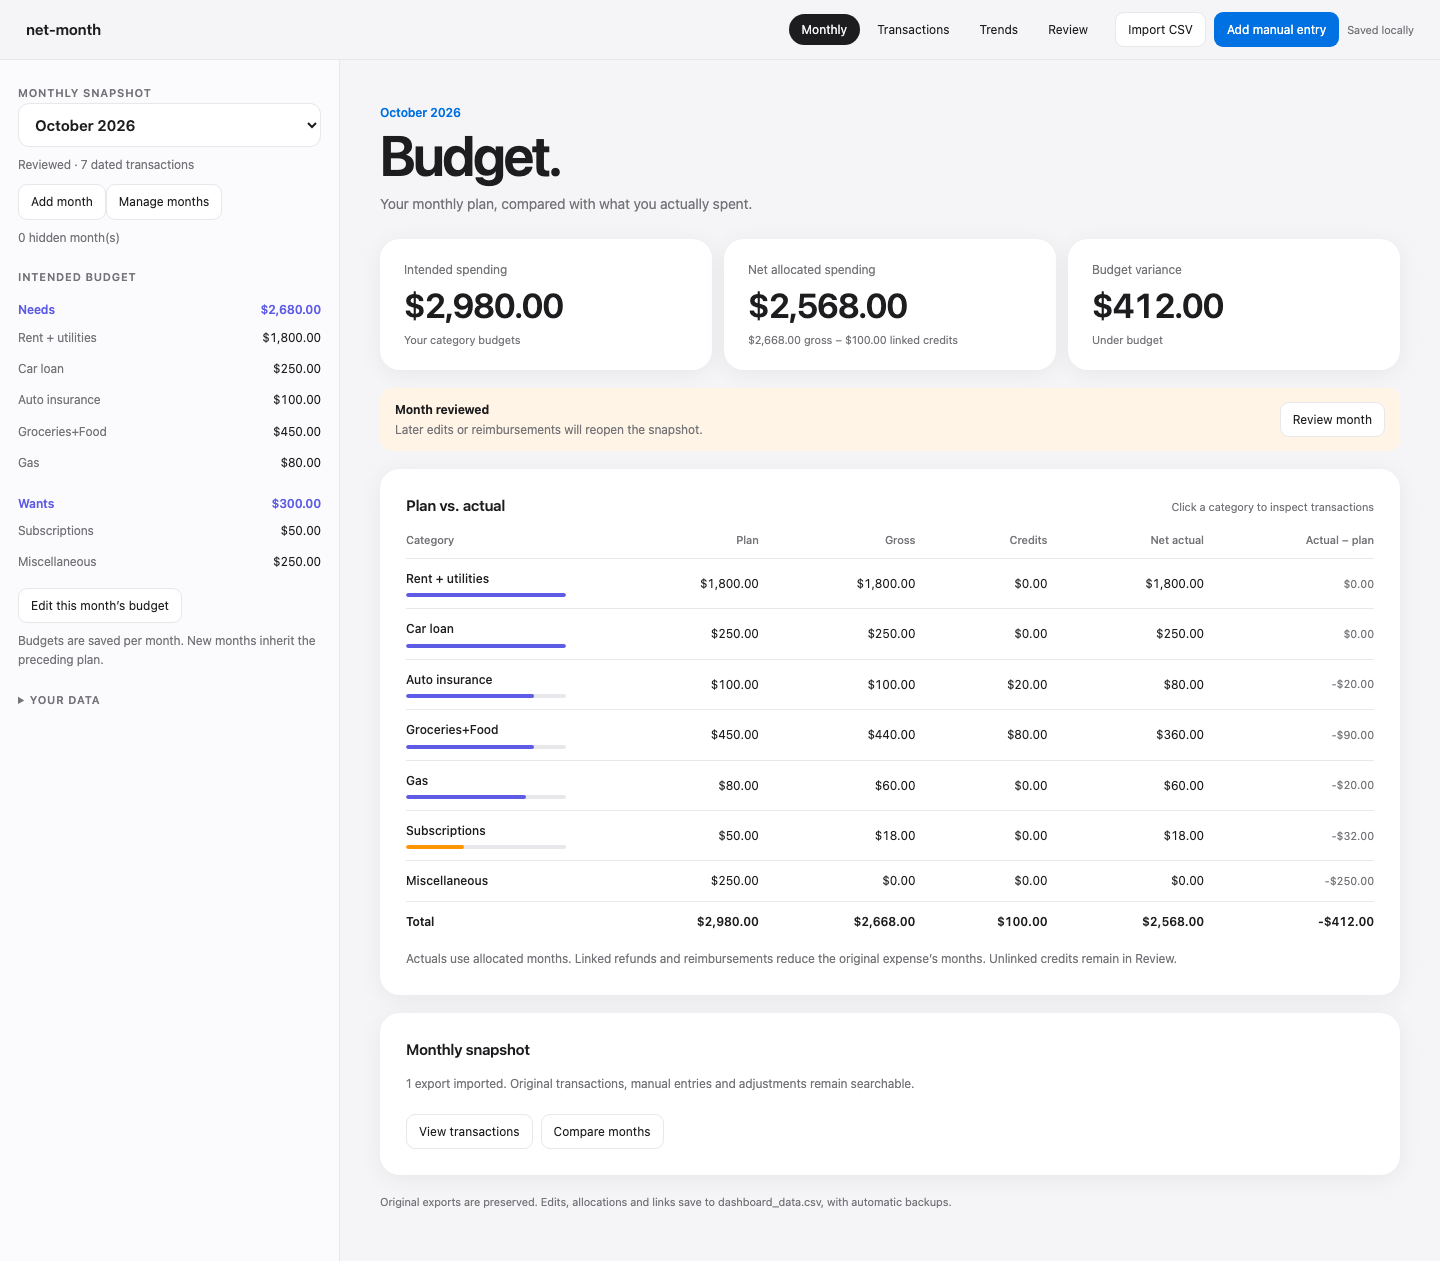
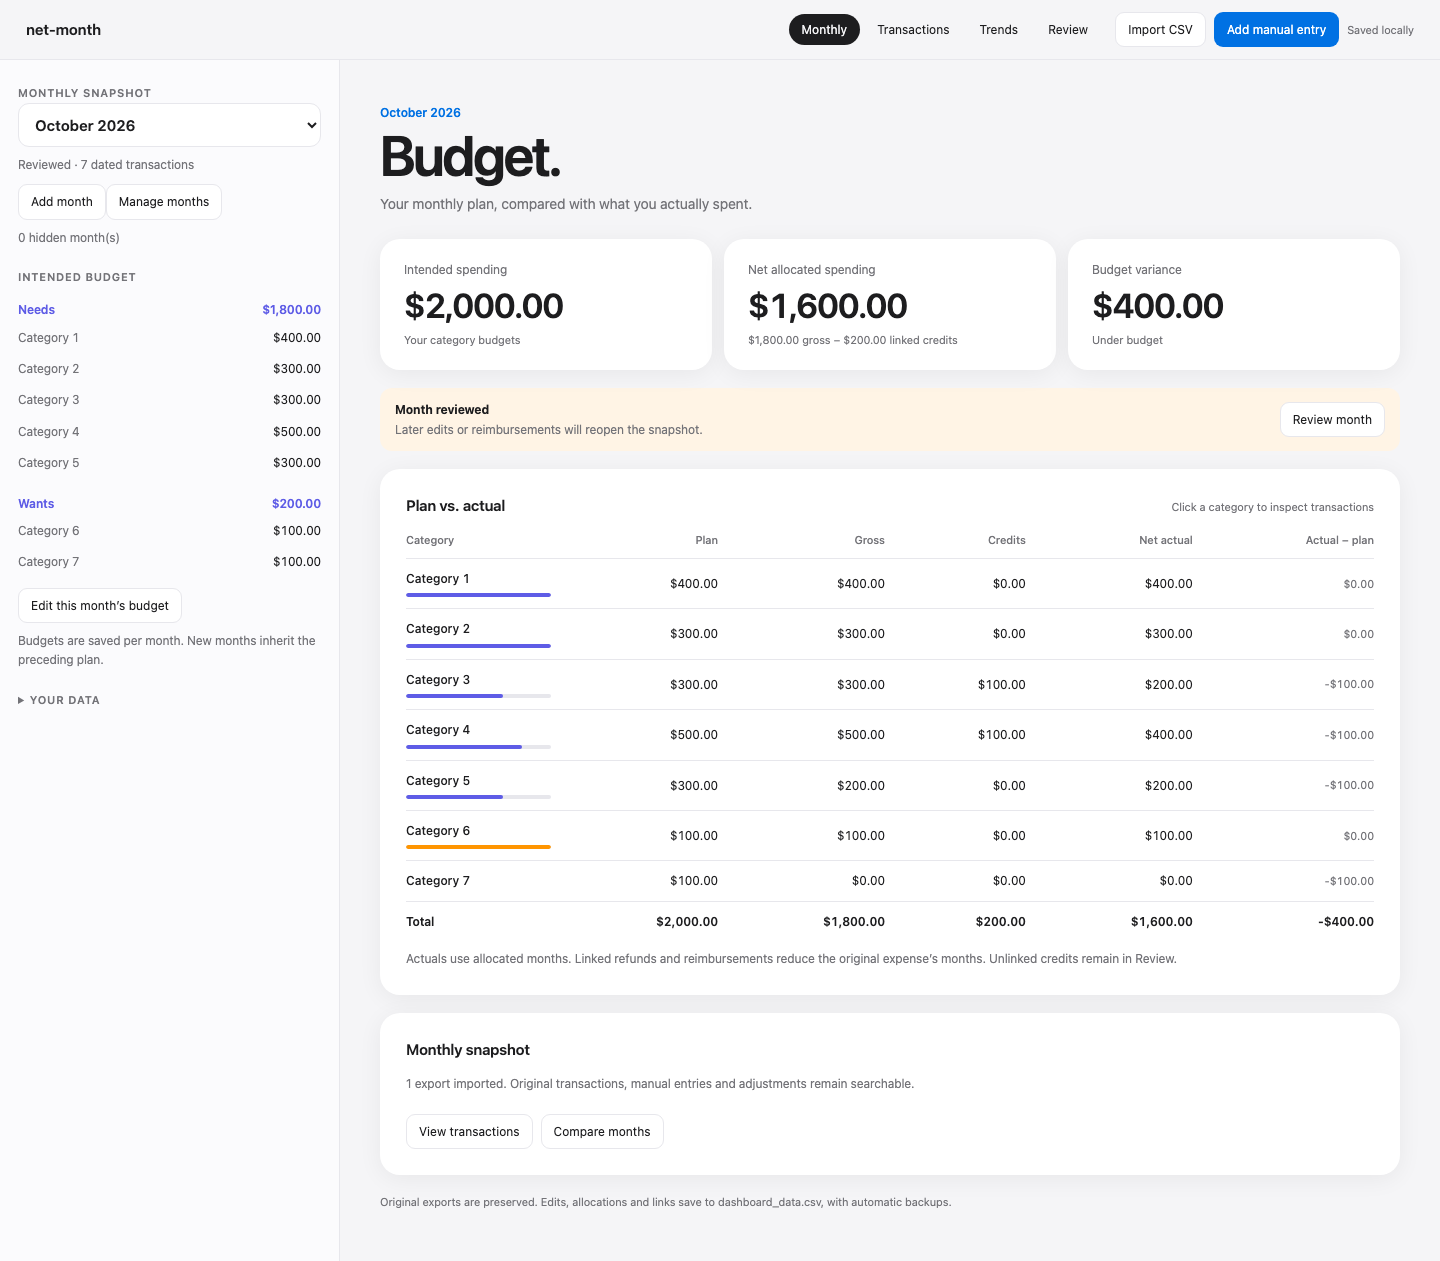
Use generic categories and smaller amounts in the demo

diff --git a/demo.py b/demo.py
@@ -1,26 +1,38 @@
 """Create a synthetic budget in a new data directory; never overwrite records."""
 import argparse
+import json
 from pathlib import Path
 
-from budget_server import Store, empty, preview_import, commit_import, mutate, CATEGORIES
+from budget_server import Store, empty, preview_import, commit_import, mutate, configure
+
+
+DEMO_CONFIG = {
+    'categories': dict(zip([f'Category {i}' for i in range(1, 8)], [400, 300, 300, 500, 300, 100, 100])),
+    'category_map': {'rent': 'Category 1', 'car loan': 'Category 2', 'auto insurance': 'Category 3',
+                     'groceries': 'Category 4', 'restaurants': 'Category 4', 'gasoline/fuel': 'Category 5'},
+    'subscription_category': 'Category 6',
+    'fallback_category': 'Category 7',
+    'groups': {'Needs': [f'Category {i}' for i in range(1, 6)], 'Wants': ['Category 6', 'Category 7']},
+}
 
 
 def demo_state():
+    """Build the synthetic records after loading DEMO_CONFIG."""
     rows = ['Date,Account,Description,Category,Amount']
     for month in ['2026-08', '2026-09', '2026-10']:
         for day, merchant, category, amount in [
-            (1, 'Example Apartments', 'Rent', -1800),
-            (3, 'Example Auto Loan', 'Car loan', -250),
-            (5, 'Example Grocery', 'Groceries', -320),
-            (8, 'Example Fuel', 'Gasoline/Fuel', -60),
-            (15, 'Example Music', 'Online Services', -18),
+            (1, 'Example Apartments', 'Rent', -400),
+            (3, 'Example Auto Loan', 'Car loan', -300),
+            (5, 'Example Grocery', 'Groceries', -200),
+            (8, 'Example Fuel', 'Gasoline/Fuel', -200),
+            (15, 'Example Music', 'Online Services', -100),
         ]:
             rows.append(f'{month}-{day:02},Demo checking,{merchant},{category},{amount}')
     rows += [
-        '2026-08-10,Demo card,Annual insurance,Auto Insurance,-1200',
-        '2026-10-20,Demo card,Insurance refund,Auto Insurance,240',
-        '2026-10-12,Demo card,Dinner with friends,Restaurants,-120',
-        '2026-11-02,Demo checking,Dinner repayment,Restaurants,80',
+        '2026-08-10,Demo card,Annual insurance,Auto Insurance,-3600',
+        '2026-10-20,Demo card,Insurance refund,Auto Insurance,1200',
+        '2026-10-12,Demo card,Dinner with friends,Restaurants,-300',
+        '2026-11-02,Demo checking,Dinner repayment,Restaurants,100',
     ]
     state = empty()
     preview = preview_import(state, '\n'.join(rows) + '\n', 'synthetic-empower.csv')
@@ -28,19 +40,16 @@ def demo_state():
     by_name = {t['description']: t for t in state['transactions']}
     annual = by_name['Annual insurance']
     months = [f'{2026 + (7 + i) // 12}-{(7 + i) % 12 + 1:02}' for i in range(12)]
-    mutate(state, 'transaction', dict(id=annual['id'], kind='expense', category='Auto insurance',
-           allocations=[{'month': month, 'amount': '100'} for month in months]))
+    mutate(state, 'transaction', dict(id=annual['id'], kind='expense', category='Category 3',
+           allocations=[{'month': month, 'amount': '300'} for month in months]))
     mutate(state, 'links', {'id': by_name['Insurance refund']['id'],
-           'links': [{'expense_id': annual['id'], 'amount': '240'}]})
+           'links': [{'expense_id': annual['id'], 'amount': '1200'}]})
     repayment = by_name['Dinner repayment']
-    mutate(state, 'transaction', dict(id=repayment['id'], kind='reimbursement', category='Groceries+Food'))
+    mutate(state, 'transaction', dict(id=repayment['id'], kind='reimbursement', category='Category 4'))
     mutate(state, 'links', {'id': repayment['id'],
-           'links': [{'expense_id': by_name['Dinner with friends']['id'], 'amount': '80'}]})
-    plan = dict(zip(CATEGORIES, [180000, 25000, 10000, 45000, 8000, 5000, 25000]))
-    for month in state['budgets']:
-        state['budgets'][month] = plan.copy()
+           'links': [{'expense_id': by_name['Dinner with friends']['id'], 'amount': '100'}]})
     for month in ['2026-08', '2026-09', '2026-10']:
-        mutate(state, 'month', {'month': month, 'zero_categories': ['Miscellaneous'], 'reviewed': True})
+        mutate(state, 'month', {'month': month, 'zero_categories': ['Category 7'], 'reviewed': True})
     return state
 
 
@@ -48,6 +57,9 @@ def create_demo(folder):
     folder = Path(folder)
     # Exclusive creation prevents mixing demo records with anyone's financial data.
     folder.mkdir(parents=True, exist_ok=False, mode=0o700)
+    config = folder / 'config.json'
+    config.write_text(json.dumps(DEMO_CONFIG, indent=2) + '\n', encoding='utf-8')
+    configure(config)
     Store(folder).save(demo_state())
 
 

diff --git a/test_release.py b/test_release.py
@@ -8,7 +8,7 @@ import subprocess
 import unittest
 
 import budget_server as b
-from demo import create_demo, demo_state
+from demo import create_demo, DEMO_CONFIG
 
 
 class ReleaseTests(unittest.TestCase):
@@ -68,10 +68,13 @@ class ReleaseTests(unittest.TestCase):
         rejected = ['-12,34', '-1,23.45', '-1$2.34', '1,,234', '12,3456', '1234,567',
                     '1.234,56', '1,234.', '$$12', '$-+12', '1 234.56', '1e3',
                     'NaN', 'Infinity', '12.345', '', '0', '-0.00']
+        state = b.empty()
+        b.mutate(state, 'transaction', dict(date='2026-10-01', amount='-100', description='Existing record',
+                 kind='expense', category='Miscellaneous'))
+        original = copy.deepcopy(state)
         for legacy in [False, True]:
             for text in rejected:
                 with self.subTest(text=text, legacy=legacy):
-                    state = demo_state(); original = copy.deepcopy(state)
                     with self.assertRaisesRegex(b.Invalid, 'CSV row 2:'):
                         b.preview_import(state, self.export_amount(text, legacy), 'synthetic.csv')
                     self.assertEqual(state, original)
@@ -137,17 +140,34 @@ class ReleaseTests(unittest.TestCase):
                 self.assertEqual(b.CATEGORIES, self.original[0])
 
     def test_demo_allocations_credits_and_no_overwrite(self):
-        state = demo_state(); snapshot = b.snapshot(state)
-        self.assertEqual(snapshot['summaries']['2026-10']['categories']['Auto insurance']['net'], 8000)
-        self.assertEqual(snapshot['summaries']['2026-10']['categories']['Groceries+Food']['net'], 36000)
-        self.assertEqual(snapshot['summaries']['2026-11']['categories']['Groceries+Food']['net'], 0)
-        annual = next(t for t in snapshot['transactions'] if t['description'] == 'Annual insurance')
-        self.assertEqual((annual['date'], annual['cents'], len(annual['allocations'])), ('2026-08-10', -120000, 12))
         with tempfile.TemporaryDirectory() as parent:
             folder = Path(parent) / 'demo'; create_demo(folder)
-            original = (folder / 'dashboard_data.csv').read_bytes()
+            self.assertEqual(json.loads((folder / 'config.json').read_text()), DEMO_CONFIG)
+            snapshot = b.snapshot(b.Store(folder).load())
+            categories = [f'Category {i}' for i in range(1, 8)]
+            self.assertEqual(snapshot['categories'], categories)
+            october = snapshot['summaries']['2026-10']
+            self.assertEqual((october['planned'], october['gross'], october['credits'], october['total']),
+                             (200000, 180000, 20000, 160000))
+            self.assertTrue(october['complete'])
+            self.assertTrue(october['reviewed'])
+            self.assertEqual([october['categories'][c]['net'] for c in categories],
+                             [40000, 30000, 20000, 40000, 20000, 10000, 0])
+            for category, row in october['categories'].items():
+                amounts = [october['budget'][category], row['gross'], row['credits'], row['net'],
+                           row['net'] - october['budget'][category]]
+                self.assertTrue(all(value == 0 or 10000 <= abs(value) <= 50000 for value in amounts), category)
+            self.assertEqual(snapshot['summaries']['2026-11']['categories']['Category 4']['net'], 0)
+            annual = next(t for t in snapshot['transactions'] if t['description'] == 'Annual insurance')
+            self.assertEqual((annual['date'], annual['cents'], len(annual['allocations'])),
+                             ('2026-08-10', -360000, 12))
+            self.assertTrue(all(a['cents'] == 30000 for a in annual['allocations']))
+            self.assertEqual(annual['linked_cents'], 120000)
+            dinner = next(t for t in snapshot['transactions'] if t['description'] == 'Dinner with friends')
+            self.assertEqual((dinner['cents'], dinner['linked_cents']), (-30000, 10000))
+            original = {name: (folder / name).read_bytes() for name in ['dashboard_data.csv', 'config.json']}
             with self.assertRaises(FileExistsError): create_demo(folder)
-            self.assertEqual((folder / 'dashboard_data.csv').read_bytes(), original)
+            self.assertEqual({name: (folder / name).read_bytes() for name in original}, original)
 
 
 if __name__ == '__main__':

diff --git a/test_browser.py b/test_browser.py
@@ -7,7 +7,7 @@ from pathlib import Path
 
 from budget_server import BudgetHTTPServer, Handler, Store, empty, mutate, preview_import, commit_import, configure, ensure_month
 from playwright.sync_api import sync_playwright, expect
-from demo import demo_state
+from demo import create_demo
 
 
 def main():
@@ -217,7 +217,8 @@ def main():
                 expect(page.locator('#save-status')).to_have_text('Saved locally')
                 assert len(store.load()['transactions']) == before + 1
                 # The shipped demo's annual allocations must not displace imported history.
-                store.save(demo_state())
+                demo_folder = Path(folder) / 'demo'; create_demo(demo_folder)
+                store = Store(demo_folder); server.store = store
                 page.reload()
                 expect(page.locator('#save-status')).to_have_text('Saved locally')
                 page.locator('#month-select').select_option('2026-10')
@@ -225,7 +226,7 @@ def main():
                 expect(page.locator('.bm-history-month')).to_have_text(['2026-08Reviewed', '2026-09Reviewed', '2026-10Reviewed'])
                 expect(page.locator('.bm-table thead th')).to_have_text(['Category', '2026-08', '2026-09', '2026-10'])
                 expect(page.locator('.bm-panel-head').last).to_contain_text('through October 2026')
-                expect(page.locator('.bm-total td').last).to_have_text('$2,568.00')
+                expect(page.locator('.bm-total td').last).to_have_text('$1,600.00')
                 page.locator('#month-select').select_option('2026-09')
                 expect(page.locator('.bm-history-col')).to_have_count(2)
                 expect(page.locator('.bm-table thead th')).to_have_text(['Category', '2026-08', '2026-09'])
@@ -246,7 +247,7 @@ def main():
                 config = {'categories': {'Home': 1000, 'Memberships': 30, 'Other': 100},
                           'category_map': {'rent': 'Home'}, 'subscription_category': 'Memberships',
                           'fallback_category': 'Other', 'groups': {'Essentials': ['Home'], 'Flexible': ['Memberships', 'Other']}}
-                config_path = Path(folder) / 'config.json'
+                config_path = store.folder / 'config.json'
                 config_path.write_text(json.dumps(config))
                 configure(config_path)
                 custom = empty(); ensure_month(custom, '2026-10'); store.save(custom)

diff --git a/capture_demo.py b/capture_demo.py
@@ -29,7 +29,10 @@ def main():
                 expect(page.locator('.bm-brand')).to_have_text('net-month')
                 expect(page.locator('#save-status')).to_have_text('Saved locally')
                 page.locator('#month-select').select_option('2026-10')
-                expect(page.locator('#main-content')).to_contain_text('$2,568.00')
+                expect(page.locator('.bm-category')).to_have_text([f'Category {i}' for i in range(1, 8)])
+                expect(page.locator('.bm-value')).to_have_text(['$2,000.00', '$1,600.00', '$400.00'])
+                expect(page.locator('.bm-total td')).to_have_text(
+                    ['Total', '$2,000.00', '$1,800.00', '$200.00', '$1,600.00', '-$400.00'])
                 page.screenshot(path=str(args.output / 'monthly.png'), full_page=True)
                 assert not errors, errors
                 context.close(); browser.close()

diff --git a/docs/setup.md b/docs/setup.md
@@ -64,7 +64,7 @@ python3 budget_server.py --data-dir demo-data
 
 If `demo-data/` already exists, reuse it only if the user wants to preserve that demo, or create a fresh named directory with `python3 demo.py --data-dir local/demo-check` and launch it with `python3 budget_server.py --data-dir local/demo-check`. Never delete a directory to make a test pass.
 
-In the demo, select October 2026. Verify net allocated spending of **$2,568.00**, annual insurance net of **$80.00**, and Groceries+Food net of **$360.00**. In Transactions, the $1,200 insurance charge retains its August date and has twelve monthly allocations. The $80 November dinner repayment links to the October $120 dinner.
+The demo uses its own `config.json` with Category 1 through Category 7. Select October 2026 and verify net allocated spending of **$1,600.00**, Category 3 net of **$200.00**, and Category 4 net of **$400.00**. In Transactions, the $3,600 annual insurance charge retains its August date and has twelve $300 monthly allocations; its $1,200 linked refund reduces each month by $100. The $100 November dinner repayment links to the October $300 dinner.
 
 Save a synthetic manual expense, reload the page, and verify the entry persists. Stop the demo server. If available, `node test_app.js` and `python3 test_browser.py` automate additional interface checks in fresh synthetic directories. Those checks do not use the user's real records.
 

diff --git a/README.md b/README.md
@@ -8,7 +8,7 @@ Import Empower CSVs, review recurring subscriptions, and compare monthly spendin
 
 ![net-month monthly view with planned spending and net allocated expenses](docs/images/monthly.png)
 
-*Synthetic records for October 2026. An $80 repayment received in November reduces October’s $120 dinner cost to $40.*
+*Synthetic records for October 2026, using generic categories. A $100 repayment received in November reduces October’s $300 dinner cost to $200.*
 
 ## Try the demo
 
